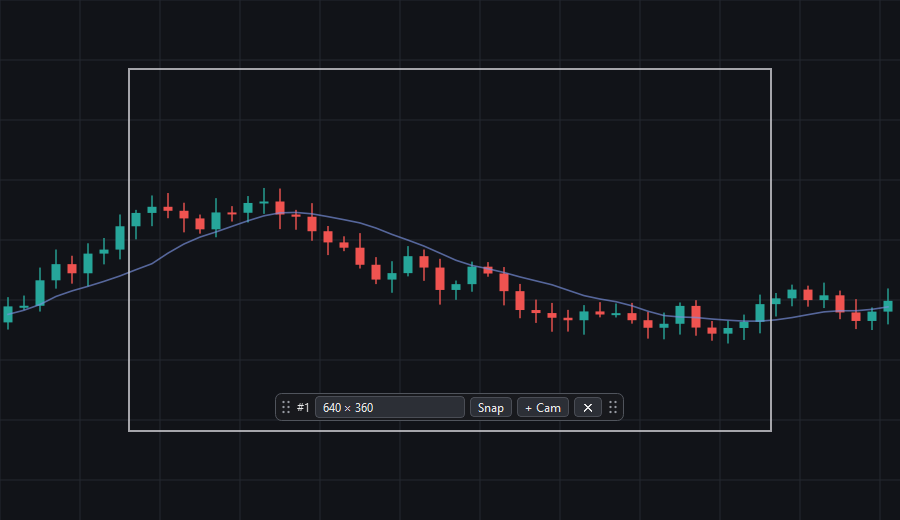
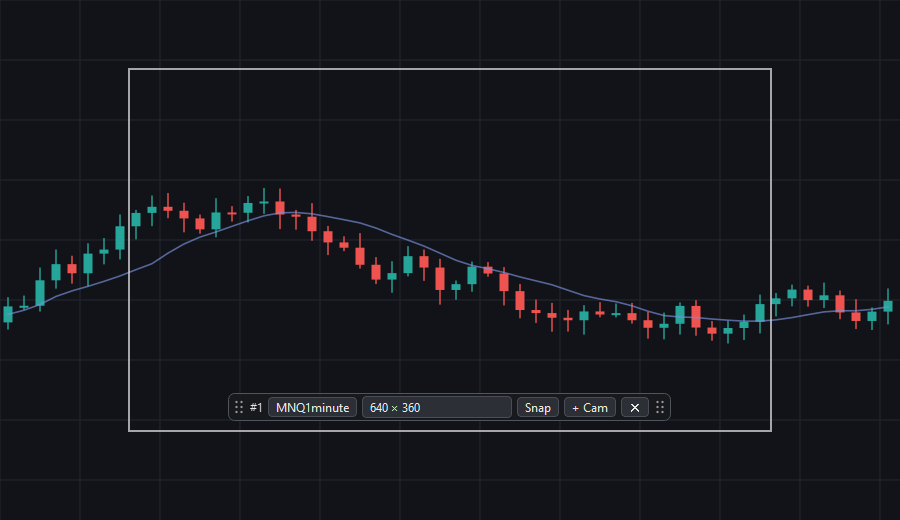
Named cameras: text and images

Changed region(s): [[0.4978, 0.7385, 0.7467, 0.8308], [0.2489, 0.7385, 0.4667, 0.8308]]

diff --git a/index.html b/index.html
@@ -65,6 +65,7 @@
           <li><b>As many as you like.</b> <b>+ Cam</b> on any frame spawns another of the same size.</li>
           <li><b>Resize and move.</b> Drag the border to resize; it turns magenta when grabbed. Drag the bar to move.</li>
           <li><b>Edges stick</b> to screen and taskbar edges, and a frame cannot be pushed off the desktop.</li>
+          <li><b>Named cameras.</b> Give a camera a name such as MNQ1minute and its PNGs are saved under that name.</li>
           <li><b>Layouts.</b> Save the current cameras under a name and restore them later; positions are stored per monitor.</li>
           <li><b>Clean shots.</b> The bar fades away when not hovered, and every border and bar is hidden at capture time.</li>
           <li><b>Snap</b> one camera or <b>Snap all</b>; PNGs go to a folder and the last shot to the clipboard.</li>

diff --git a/README.md b/README.md
@@ -18,6 +18,8 @@ land straight in a folder.
 - Size drop-down: pixel presets up to 8K, inch and mm paper/photo sizes (at 96 px/in), or custom.
 - `+ Cam` on a bar spawns another camera of the same size.
 - Edges stick to screen and taskbar edges; a camera cannot be pushed off the desktop.
+- `Name…` on a bar labels a camera (for example MNQ1minute); its PNGs are then saved as
+  `MNQ1minute_<date>_<time>.png` with the name also stored inside the file.
 - `Layouts` saves the current cameras under a name (for example TradingLayout) and restores them
   later; positions are stored per monitor.
 - `Snap` saves one camera, `Snap all` saves every camera. Borders and bars of all cameras are
